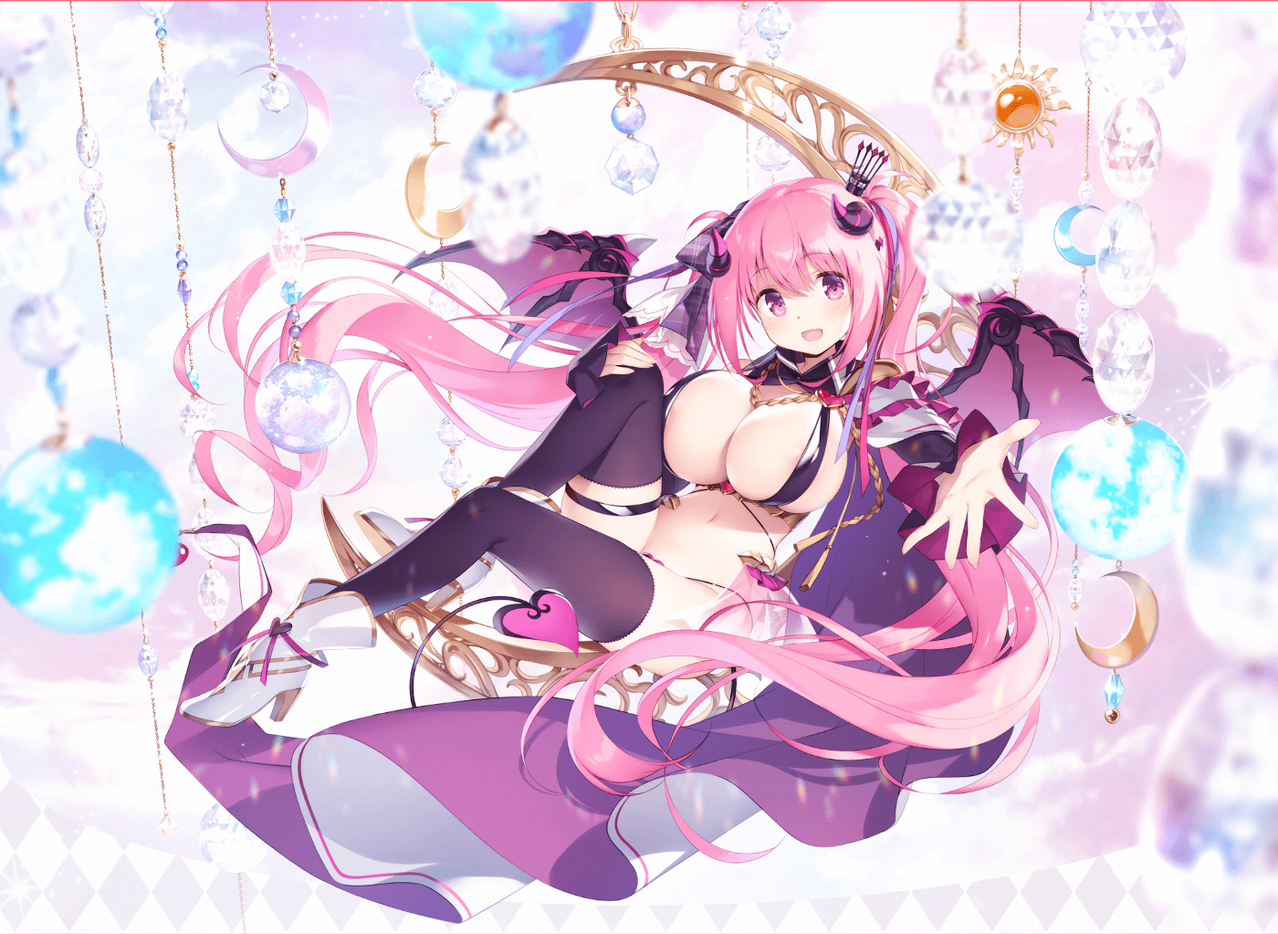
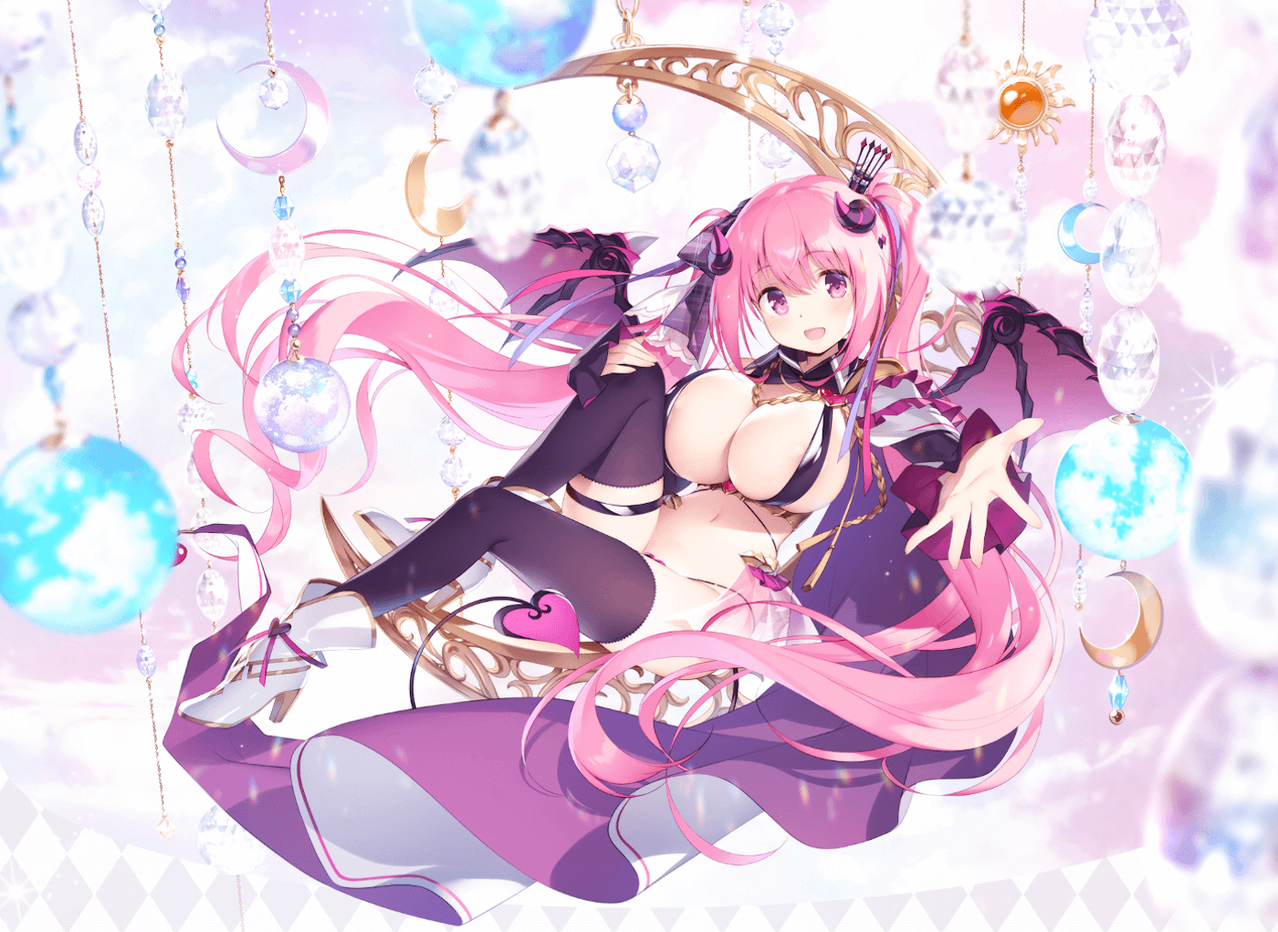
Ver.1.32-201910010 改进文章布局； 完善文章内容及排版；

diff --git a/game/articals/kimaten/kimaten_s.html b/game/articals/kimaten/kimaten_s.html
@@ -9,48 +9,158 @@
   <title>心血来潮的诱惑 梗概</title>
 </head>
 <body>
-<main>
-  男主巽悠久是日本负责所有超自然生物管理的超自然组织——阴阳寮下属的一名阴阳师。某天一幢公寓中发生了四名住户死亡的事件。经当地超自然机关刑事十三课勘察，四人腹部被剖开，没有其他外伤且内脏均不翼而飞，同时，公寓被浓厚的瘴气包围，而当地的阴阳师大家加贺见家的当主因事不在当地，其夫人怀孕无法亲临现场。悠久因为诅咒耐受力很强，其师父就派他前去现场调查该事件的真相，还告诉悠久有一名来自英国的协助者共同行动。
+<main style="margin: 1rem auto; left: 0; width: 90%;">
+  <p>
+    男主巽悠久是日本负责所有超自然生物管理的超自然组织——阴阳寮下属的一名阴阳师。某天一幢公寓中发生了四名住户死亡的事件。
+    经当地超自然机关刑事十三课勘察，四人腹部被剖开，没有其他外伤且内脏均不翼而飞，同时，公寓被浓厚的瘴气包围，
+    而当地的阴阳师大家加贺见家的当主因事不在当地，其夫人怀孕无法亲临现场。悠久因为诅咒耐受力很强，
+    其师父就派他前去现场调查该事件的真相，还告诉悠久有一名来自英国的协助者共同行动。
+  </p>
+  <p>
+    悠久进入公寓的空房间203住下，其协助者安妮丽泽是来自英国的恶魔(魅魔)，为了获得在日本的永久居住权而被师傅说服，住在101房。
+    悠久在房中张开符咒结界，购物归来却发现公寓大门无法打开，阳台也是全封闭式的，两人被关在公寓之中。
+    悠久分析是公寓在诅咒下已经成为了里世界，所有房间都表现为黑夜，只有203房有结界保护暂时是正常世界(女主安妮是恶魔不怕瘴气)。
+    悠久房间里手机信号正常，联系了加贺见家的妻子琴莉，其答应悠久尽快联系十三课调查住户和房东(已失踪)的信息，并每天晚上都保持电话联系。
+  </p>
+  <p>
+    次日两人开始调查公寓。安妮居住的101房除了瘴气略浓外并无其他异常。102房是一名身着修女服的女性自称莎莉，
+    房间里只有基本满足生活需求的家具。悠久不管问她什么问题她都用向神祈祷岔开话题，二人离开时她送给悠久一本精装教典，
+    说这是引导她们的教主玛莎的教谕，遵从教典向神祈祷才能真正成为她们的同伴，即“天使”。103房被满屋的垃圾堆满，都是零食包装袋，
+    汽水瓶等。一角的床上半空中躺着一名少女自称萝姬，似乎非常慵懒，对二人漠不关心。201房的屋中种满了不知名的植物，
+    一名看似不良少女的女性自称库里，抽着烟，语气粗鲁，且对那些植物极度重视，对所谓教义却不屑一顾。
+    二人趁其不备拍下了房间的照片并之后发给了加贺见琴莉。202房中是一名戴眼镜的女性自称哈比，语气弱气。房间里放着很多漫画小说，
+    其本人似乎也是个漫画作者。她似乎很好说话，告诉悠久这幢公寓即神之胎，里面的住户都是天使，只要遵从教义，
+    遵从自己的欲望就可以成为她们的同伴，最终成为天使。所有人身穿的服饰风格大同小异，只有201的库里在里面穿了一件水手服校服。
+    并且，所有人都是被一个叫玛莎的人引领进来的，她们的身体不同部位都有一个69形的所谓圣痕，悠久认为那是某种诅咒的刻印，
+    束缚着受害者的灵魂，标志这个人是“天使”。
+  </p>
+  <p>
+    两人回到203，发现时间已到夜晚。悠久分析里世界的时间流逝比正常世界慢，只有203结界保护才正常。
+    作为证明那本精装书在203只是一沓打印纸，其中只写了一些遵从七美德(七宗罪)等不明所以的话。其次，
+    公寓中的被害者灵魂都来自让灵体吞噬尸体(内脏)，使灵魂包裹肉体而产生，而不论自愿与否，创造法类似阴阳师创造可驱使的式神，
+    它们被圣名与刻印束缚，可能会忘却自己的过去(根据自愿与否)。这些与此同时加贺见琴莉发来了所有住户的真名，
+    以及201中的植物其实是大麻。悠久认为现今公寓关住两人就是为了同化两人为“天使”，想要查清真相不能单纯将这些灵体尽数斩杀，
+    而应该让她们自己想起自己生前的事和真名，让她们自己摆脱诅咒带来的扭曲和束缚，消除所有“天使”，诅咒就自然解开了。
+  </p>
+  <p>
+    第二天早上悠久发现自己的符咒结界已经开始有侵蚀的痕迹了，证明两人也不能久待。202的女性楠木美璃亚和安妮在动漫上的话题聊的很起劲，
+    悠久此时故意在她面前找理由提起她的真名，从她的反应推断出她应该记得自己生前之事和真名，可能是自愿加入邪教成为天使的。
+    对于201的库里，悠久并没有提起她的真名雾生晶，而是旁敲侧击问了她学校和校服的事，成功让她陷入混乱。由此可见，她大概是被迫成为天使的。
+    103的少女野野宫花音并没有出现，可能是在睡觉，但两人找出了垃圾山下的一个注射器并拍了照，之后发给了加贺美琴莉。
+    102的修女绫濑沙也香仍然没有收获，但安妮在提到了两人的关系是恋人时，房间内的瘴气出现了明显的波动，悠久认为这可能是突破口。
+  </p>
+  <p>
+    回到203，加贺美琴莉发来了除201的雾生晶以外其他人的身份背景。综合考虑，悠久认为两人被关在公寓里不一定是为了将他们吸纳为“家人”，
+    可能另有原因，因为直到现在都是两人主动调查而没有受到攻击和骚扰。新的一天，结界符的损伤加大，估计只能再坚持一到两天。
+    悠久也决定不再观察等待，而是主动进攻。但这天当两人离开房间却发现走廊已经被瘴气严重侵蚀。悠久首先在走廊上打开了教典。
+    教典空无一字，但它确实侵蚀了悠久，唤起了悠久过去内心中的伤痛和脆弱，就是从小到大被孤立的孤独感。
+    在教典将要诱惑悠久加入家族成为天使时，安妮见悠久反应不正常，击落了悠久手中的教典。这也就是说，交给他们教典的102的莎莉很可能是关键敌人。
+  </p>
+  <p>
+    两人进入202挑明身份和目的，果然哈比(楠木美璃亚)是记得自己生前的事，包括真名和自己的死亡，但她仍然否认自己的一切，
+    声称自己是天使哈比。悠久将加贺美琴莉发来的信息抖出，原来美璃亚是在网上画BL男性怀孕漫画以及男性向H漫的太太，不仅如此，
+    她还当过靠低俗梗(男性怀孕)火了一把的vtuber，但第三次直播由于太过激导致直播被封停。另外她还发行过r18ASMR等。
+    在悠久的施压下，哈比承认了自己就是美璃亚。据她称，玛莎就是房东太田寿子，她会以关心住户为名轮流住进各住户的房间，
+    如果是睡觉或没人在的时候就会用钥匙开门，但因为便宜她还是住进了这里。最后一次见到她是仪式当天。而关于仪式当天的事她记忆模糊，
+    只记得看见自己第三个被剖开腹部。醒来后就和自己的尸体一起在房间里了，自己出不去房间，一切都像是梦。而且，
+    房东会定期从隔壁房间取出称为“神的祝福”的紫色的药发给大家，仪式当天记忆模糊可能是药物作用。另外，住的时间最长的102房的莎莉和玛莎交情很好，
+    经常和玛莎一起在各个房间里传教。关于201房的库里，哈比只知道她经常不在屋里，但夜晚能听到她和玛莎/莎莉的对话声。
+    哈比还和103的萝姬趣味相投，她认为萝姬不会对悠久带的零食感兴趣，于是给了悠久一本萝姬没看完的漫画，说这个能让萝姬出来。
+    但谈到萝姬，哈比却喃喃道自己不是受害者，突然陷入混乱瘴气肆溢，悠久两人连忙出了房间。
+  </p>
+  <p>
+    两人准备进入201见库里，但按门铃没反应。悠久刚准备破门而出，库里却持刀从门缝刺出。安妮见势抓住库里，告诉她她已经死了的事实，
+    库里在惨叫中关上了门。
+  </p>
+  <p>
+    两人进入103成功用漫画吸引了萝姬，但她只说自己从最初就在这里住，不知道成为天使以前的事。但悠久一提到萝姬的父母，
+    她的态度突然转变，口中念到自己没有父母，玛莎是自己的母亲，瘴气肆溢。但当悠久否认了她的父母，给了她漫画时，一切又回归如初。
+    根据情报她的父母仍然健在来看，悠久认为她成为天使是由于家庭原因。安妮用和萝姬谈论漫画获取信任后，
+    萝姬在闲聊中提及自己成为天使后根本不用吃饭。突然，悠久发现自己搞错了一件重要的事。
+  </p>
+  <p>
+    两人刚一出萝姬的房间，悠久却突然陷入了诅咒的影响。在他好不容易摆脱了瘴气的影响后回到房间。冷静下来后，
+    悠久说到所谓天使或式神的原理都是使灵魂包裹肉体而使普通人不可视，与单纯人死后幽灵不同，由于要维持肉体所以需要进食，
+    而萝姬说自己不用进食，明显她只是单纯的幽灵。而203的哈比也同样这么认为，那至少她俩是单纯的幽灵。
+    问题在于消失的内脏(祭品)在哪或是被谁吃了？悠久认为照这样看，其他人都只是诅咒的受害者而非诅咒本身。这样“天使”们其实都不存在，
+    那这诅咒的核心就是这幢公寓“神之胎”产下的“神”。玛莎已经失踪，很有可能是将自己的全部肉体和受害者的内脏都献给了“神”。
+    现在的主要目标就是找到“神”并弑神以解除诅咒。在接到琴音小姐的关于房东写下的进行仪式的情报之后，原来102的莎莉由于与人交流障碍而工作不顺，
+    住进公寓后信了玛莎的邪教，与其一同蛊惑住户；103的萝姬则是无故将自己关在屋内不理睬任何人。其父母担心她，于是为了让她学会独立，
+    让她独自在外居住，将她托付给了熟人太田寿子。但私下，太田寿子诱惑她堕落而信了邪教。201的雾生晶则由于家世背景，认识很多黑道的人，
+    她借公寓的屋子培育大麻，又在黑道上买回加工好的毒品再转卖给学校的学生以获取利益。太田寿子也同时分得一部分麻药。
+  </p>
+  <p>
+    但就在两人整理线索时，203的门铃突然被按响。门外没人，只是102的莎莉的语音电话，让两人到她的房间去一趟。房中，
+    悠久挑明了身份和目的，莎莉也显出了真实模样，说她就是所谓“天使”。在确认她也无法离开房间且其力量根本无法伤害两人后，
+    悠久本着按加贺美家原则行事，没有斩杀她。但回到203却发现203也即将被瘴气侵蚀。这时，玛莎的日记扫描数据送到了悠久的手机。
+  </p>
+  <p>
+    原来玛莎小时候被父母管束很严，在父母事故死后又因为寂寞想要与人交流，在遇到沙也香后两人都在追求着与他人之间的羁绊，
+    变得越来越不正常，将阳台修成全封闭式也是为了防止住户逃跑，进入住户的房间也是为了作为大家的母亲，作为神一般的全能感。
+    之后她就开始想象神的声音，想让大家都成为天使，成为真正一家人。悠久认为莎莉/玛莎大概率已成一体，
+    只有找到能决定性的推翻莎莉/玛莎的世界观的证据就可以让她成佛。
+  </p>
+  <p>
+    最后一天早上，连203也被里世界完全侵蚀。悠久决定去找202的雾生晶要到麻药实物，并找203的楠木要到在药物影响下的犯罪证据，
+    以先击败天使莎莉为主。两人前往203，一轮嘴炮将濒临侵蚀的美璃亚救了回来。美璃亚讲述了她的经历。在住进这里两个月后，
+    房东太田就向她灌输邪教思想，她也配合着太田和绫濑的家人游戏。但当花音搬进102之后，由于花音对自己不关心的事不闻不问，
+    不听太田和绫濑的话，经常被两人殴打，但楠木却为了自己不被殴打，无视了好友花音向自己发出的求救信号。并且，
+    太田之后开始为花音注射“神的祝福”，由于花音的药物反应与他人不同，太田就每天都给她注射，直到花音成为生活无法自理的废人。
+    而楠木由于一直遵从太田她们的指示，不仅获得了随意外出的许可，还留有手机和可以上网，但她惧于太田和绫濑的疯狂和威慑，
+    一次都没有向外界求救。另外，她还提到了所有“天使”的服装，包括教典都是她设计制作的，但天使服装的设计只有玛莎一个人知道。
+    在仪式当天她们所有人都被注射了过量药物，在某个房间里被剖腹，她为了自己不被杀还亲手杀死了花音，但最后也没能逃脱被剖腹的命运。
+    三人还一起找到了楠木的服装设定集，悠久准备用这个来驳斥绫濑关于存在神的说法。
+  </p>
+  <p>
+    两人进入202，雾生晶已经恢复了人类的记忆和意识，摆脱了绫濑的精神支配。据她说，种植的大麻并不是神之祝福。她只抽大麻而不吸毒，
+    而神之祝福是一种含杂质的毒品，她本来是通过为黑道种植大麻，并帮他们在学校贩卖毒品，在其中抽成来赚钱的，
+    但太田由于喜欢私自进入住户房间，逼迫晶把她种植的大麻分给自己。不仅如此，太田和绫濑还与晶的上家接触，导致晶失去了毒品入手途径。
+    就在晶准备报复太田和绫濑时，她被两人杀死成为了灵。晶由于被父母要求学习身为大小姐的品行，但她不想那样拘束，结果被父母冷落，
+    渴望父母的爱。当她反应过来的时候，自己已经走上了邪道。嘴炮救回晶后，从他那里得到了毒品晶体和存有了绫濑毒品交易证据照片的sd卡。
+  </p>
+  <p>
+    在103门外，两人就听到了花音的惨叫声。在两人的帮助下，花音成功抵抗了莎莉的刺激，回归了自我。
+    在花音的手机上有由于她不听玛莎的话收拾房间而受到莎莉虐待的录音，悠久借走了她的手机。事实上，
+    是父母对她的期望过高导致她在压力下选择了什么都不做，才让父母送她到公寓独住。实际上，花音是记得自己被楠木杀死的事，
+    但她对楠木没有怨恨，反而感谢她每天来看她陪伴她。
+  </p>
+  <p>
+    虽然所有证据都指向了绫濑，但悠久认为事不寻常。一般说来，被害者是为了复仇等理由施下诅咒，但现在却是加害者施下诅咒囚禁被害者，
+    也就是说如果诅咒是绫濑施下的，那么她一定怨恨着，或对什么异常执着。进入102房间，悠久用得来的证据揭穿了绫濑沙也香的谎言。
+    原来她由于不被所有人重视，迫切想得到某人的认可，才唆使玛莎进行这个计划，在这里她是重要的干部，可以随意虐待手下的住户。
+    但悠久认为这并不能引发包围这座公寓的诅咒。威逼追问之下，沙也香终于说出仪式当天，只剩下她和玛莎后，
+    玛莎想让她停手但沙也香认为玛莎背叛了信仰而刺了玛莎，玛莎却反过来用这把刀刺了沙也香。她认为一切都是玛莎的错，
+    都是玛莎安排她这样做的。她想要自己支配整个家族而排斥玛莎，将她关在了地下室。事到如今，沙也香还想用结界困杀悠久，但被愤怒的安妮所斩杀。
+  </p>
 
-  悠久进入公寓的空房间203住下，其协助者安妮丽泽是来自英国的恶魔(魅魔)，为了获得在日本的永久居住权而被师傅说服，住在101房。悠久在房中张开符咒结界，购物归来却发现公寓大门无法打开，阳台也是全封闭式的，两人被关在公寓之中。悠久分析是公寓在诅咒下已经成为了里世界，所有房间都表现为黑夜，只有203房有结界保护暂时是正常世界(女主安妮是恶魔不怕瘴气)。悠久房间里手机信号正常，联系了加贺见家的妻子琴莉，其答应悠久尽快联系十三课调查住户和房东(已失踪)的信息，并每天晚上都保持电话联系。
-
-  次日两人开始调查公寓。安妮居住的101房除了瘴气略浓外并无其他异常。102房是一名身着修女服的女性自称莎莉，房间里只有基本满足生活需求的家具。悠久不管问她什么问题她都用向神祈祷岔开话题，二人离开时她送给悠久一本精装教典，说这是引导她们的教主玛莎的教谕，遵从教典向神祈祷才能真正成为她们的同伴，即“天使”。103房被满屋的垃圾堆满，都是零食包装袋，汽水瓶等。一角的床上半空中躺着一名少女自称萝姬，似乎非常慵懒，对二人漠不关心。201房的屋中种满了不知名的植物，一名看似不良少女的女性自称库里，抽着烟，语气粗鲁，且对那些植物极度重视，对所谓教义却不屑一顾。二人趁其不备拍下了房间的照片并之后发给了加贺见琴莉。202房中是一名戴眼镜的女性自称哈比，语气弱气。房间里放着很多漫画小说，其本人似乎也是个漫画作者。她似乎很好说话，告诉悠久这幢公寓即神之胎，里面的住户都是天使，只要遵从教义，遵从自己的欲望就可以成为她们的同伴，最终成为天使。所有人身穿的服饰风格大同小异，只有201的库里在里面穿了一件水手服校服。并且，所有人都是被一个叫玛莎的人引领进来的，她们的身体不同部位都有一个69形的所谓圣痕，悠久认为那是某种诅咒的刻印，束缚着受害者的灵魂，标志这个人是“天使”。
-
-  两人回到203，发现时间已到夜晚。悠久分析里世界的时间流逝比正常世界慢，只有203结界保护才正常。作为证明那本精装书在203只是一沓打印纸，其中只写了一些遵从七美德(七宗罪)等不明所以的话。其次，公寓中的被害者灵魂都来自让灵体吞噬尸体(内脏)，使灵魂包裹肉体而产生，而不论自愿与否，创造法类似阴阳师创造可驱使的式神，它们被圣名与刻印束缚，可能会忘却自己的过去(根据自愿与否)。这些与此同时加贺见琴莉发来了所有住户的真名，以及201中的植物其实是大麻。悠久认为现今公寓关住两人就是为了同化两人为“天使”，想要查清真相不能单纯将这些灵体尽数斩杀，而应该让她们自己想起自己生前的事和真名，让她们自己摆脱诅咒带来的扭曲和束缚，消除所有“天使”，诅咒就自然解开了。
-
-  第二天早上悠久发现自己的符咒结界已经开始有侵蚀的痕迹了，证明两人也不能久待。202的女性楠木美璃亚和安妮在动漫上的话题聊的很起劲，悠久此时故意在她面前找理由提起她的真名，从她的反应推断出她应该记得自己生前之事和真名，可能是自愿加入邪教成为天使的。对于201的库里，悠久并没有提起她的真名雾生晶，而是旁敲侧击问了她学校和校服的事，成功让她陷入混乱。由此可见，她大概是被迫成为天使的。103的少女野野宫花音并没有出现，可能是在睡觉，但两人找出了垃圾山下的一个注射器并拍了照，之后发给了加贺美琴莉。102的修女绫濑沙也香仍然没有收获，但安妮在提到了两人的关系是恋人时，房间内的瘴气出现了明显的波动，悠久认为这可能是突破口。
-
-  回到203，加贺美琴莉发来了除201的雾生晶以外其他人的身份背景。综合考虑，悠久认为两人被关在公寓里不一定是为了将他们吸纳为“家人”，可能另有原因，因为直到现在都是两人主动调查而没有受到攻击和骚扰。新的一天，结界符的损伤加大，估计只能再坚持一到两天。悠久也决定不再观察等待，而是主动进攻。但这天当两人离开房间却发现走廊已经被瘴气严重侵蚀。悠久首先在走廊上打开了教典。教典空无一字，但它确实侵蚀了悠久，唤起了悠久过去内心中的伤痛和脆弱，就是从小到大被孤立的孤独感。在教典将要诱惑悠久加入家族成为天使时，安妮见悠久反应不正常，击落了悠久手中的教典。这也就是说，交给他们教典的102的莎莉很可能是关键敌人。
-
-  两人进入202挑明身份和目的，果然哈比(楠木美璃亚)是记得自己生前的事，包括真名和自己的死亡，但她仍然否认自己的一切，声称自己是天使哈比。悠久将加贺美琴莉发来的信息抖出，原来美璃亚是在网上画BL男性怀孕漫画以及男性向H漫的太太，不仅如此，她还当过靠低俗梗(男性怀孕)火了一把的vtuber，但第三次直播由于太过激导致直播被封停。另外她还发行过r18ASMR等。在悠久的施压下，哈比承认了自己就是美璃亚。据她称，玛莎就是房东太田寿子，她会以关心住户为名轮流住进各住户的房间，如果是睡觉或没人在的时候就会用钥匙开门，但因为便宜她还是住进了这里。最后一次见到她是仪式当天。而关于仪式当天的事她记忆模糊，只记得看见自己第三个被剖开腹部。醒来后就和自己的尸体一起在房间里了，自己出不去房间，一切都像是梦。而且，房东会定期从隔壁房间取出称为“神的祝福”的紫色的药发给大家，仪式当天记忆模糊可能是药物作用。另外，住的时间最长的102房的莎莉和玛莎交情很好，经常和玛莎一起在各个房间里传教。关于201房的库里，哈比只知道她经常不在屋里，但夜晚能听到她和玛莎/莎莉的对话声。哈比还和103的萝姬趣味相投，她认为萝姬不会对悠久带的零食感兴趣，于是给了悠久一本萝姬没看完的漫画，说这个能让萝姬出来。但谈到萝姬，哈比却喃喃道自己不是受害者，突然陷入混乱瘴气肆溢，悠久两人连忙出了房间。
-
-  两人准备进入201见库里，但按门铃没反应。悠久刚准备破门而出，库里却持刀从门缝刺出。安妮见势抓住库里，告诉她她已经死了的事实，库里在惨叫中关上了门。
-
-  两人进入103成功用漫画吸引了萝姬，但她只说自己从最初就在这里住，不知道成为天使以前的事。但悠久一提到萝姬的父母，她的态度突然转变，口中念到自己没有父母，玛莎是自己的母亲，瘴气肆溢。但当悠久否认了她的父母，给了她漫画时，一切又回归如初。根据情报她的父母仍然健在来看，悠久认为她成为天使是由于家庭原因。安妮用和萝姬谈论漫画获取信任后，萝姬在闲聊中提及自己成为天使后根本不用吃饭。突然，悠久发现自己搞错了一件重要的事。
-
-  两人刚一出萝姬的房间，悠久却突然陷入了诅咒的影响。在他好不容易摆脱了瘴气的影响后回到房间。冷静下来后，悠久说到所谓天使或式神的原理都是使灵魂包裹肉体而使普通人不可视，与单纯人死后幽灵不同，由于要维持肉体所以需要进食的，而萝姬说自己不用进食，明显她只是单纯的幽灵。而203的哈比也同样这么认为，那至少她俩是单纯的幽灵。问题在于消失的内脏(祭品)在哪或是被谁吃了？悠久认为照这样看，其他人都只是诅咒的受害者而非诅咒本身。这样“天使”们其实都不存在，那这诅咒的核心就是这幢公寓“神之胎”产下的“神”。玛莎已经失踪，很有可能是将自己的全部肉体和受害者的内脏都献给了“神”。现在的主要目标就是找到“神”并弑神以解除诅咒。在接到琴音小姐的关于房东写下的进行仪式的情报之后，原来102的莎莉由于与人交流障碍而工作不顺，住进公寓后信了玛莎的邪教，与其一同蛊惑住户；103的萝姬则是无故将自己关在屋内不理睬任何人。其父母担心她，于是为了让她学会独立，让她独自在外居住，将她托付给了熟人太田寿子。但私下，太田寿子诱惑她堕落而信了邪教。201的雾生晶则由于家世背景，认识很多黑道的人，她借公寓的屋子培育大麻，又在黑道上买回加工好的毒品再转卖给学校的学生以获取利益。太田寿子也同时分得一部分麻药。
-
-  但就在两人整理线索时，203的门铃突然被按响。门外没人，只是102的莎莉的语音电话，让两人到她的房间去一趟。房中，悠久挑明了身份和目的，莎莉也显出了真实模样，说她就是所谓“天使”。在确认她也无法离开房间且其力量根本无法伤害两人后，悠久本着按加贺美家原则行事，没有斩杀她。但回到203却发现203也即将被瘴气侵蚀。这时，玛莎的日记扫描数据送到了悠久的手机。
-
-  原来玛莎小时候被父母管束很严，在父母事故死后又因为寂寞想要与人交流，在遇到沙也香后两人都在追求着与他人之间的羁绊，变得越来越不正常，将阳台修成全封闭式也是为了防止住户逃跑，进入住户的房间也是为了作为大家的母亲，作为神一般的全能感。之后她就开始想象神的声音，想让大家都成为天使，成为真正一家人。悠久认为莎莉/玛莎大概率已成一体，只有找到能决定性的推翻莎莉/玛莎的世界观的证据就可以让她成佛。
-
-  最后一天早上，连203也被里世界完全侵蚀。悠久决定去找202的雾生晶要到麻药实物，并找203的楠木要到在药物影响下的犯罪证据，以先击败天使莎莉为主。两人前往203，一轮嘴炮将濒临侵蚀的美璃亚救了回来。美璃亚讲述了她的经历。在住进这里两个月后，房东太田就向她灌输邪教思想，她也配合着太田和绫濑的家人游戏。但当花音搬进102之后，由于花音对自己不关心的事不闻不问，不听太田和绫濑的话，经常被两人殴打，但楠木却为了自己不被殴打，无视了好友花音向自己发出的求救信号。并且，太田之后开始为花音注射“神的祝福”，由于花音的药物反应与他人不同，太田就每天都给她注射，直到花音成为生活无法自理的废人。而楠木由于一直遵从太田她们的指示，不仅获得了随意外出的许可，还留有手机和可以上网，但她惧于太田和绫濑的疯狂和威慑，一次都没有向外界求救。另外，她还提到了所有“天使”的服装，包括教典都是她设计制作的，但天使服装的设计只有玛莎一个人知道。在仪式当天她们所有人都被注射了过量药物，在某个房间里被剖腹，她为了自己不被杀还亲手杀死了花音，但最后也没能逃脱被剖腹的命运。三人还一起找到了楠木的服装设定集，悠久准备用这个来驳斥绫濑神的存在。
-
-  两人进入202，雾生晶已经恢复了人类的记忆和意识，摆脱了绫濑的精神支配。据她说，种植的大麻并不是神之祝福。她只抽大麻而不吸毒，而神之祝福是一种含杂质的毒品，她本来是通过为黑道种植大麻，并帮他们在学校贩卖毒品，在其中抽成来赚钱的，但太田由于喜欢私自进入住户房间，逼迫晶把她种植的大麻分给自己。不仅如此，太田和绫濑还与晶的上家接触，导致晶失去了毒品入手途径。就在晶准备报复太田和绫濑时，她被两人杀死成为了灵。晶由于被父母要求学习身为大小姐的品行，但她不想那样拘束，结果被父母冷落，渴望父母的爱。当她反应过来的时候，自己已经走上了邪道。嘴炮救回晶后，从他那里得到了毒品晶体和存有了绫濑毒品交易证据照片的sd卡。
-
-  在103门外，两人就听到了花音的惨叫声。在两人的帮助下，花音成功抵抗了莎莉的刺激，回归了自我。在花音的手机上有由于她不听玛莎的话收拾房间而受到莎莉虐待的录音，悠久借走了她的手机。事实上，是父母对她的期望过高导致她在压力下选择了什么都不做，才让父母送她到公寓独住。实际上，花音是记得自己被楠木杀死的事，但她对楠木没有怨恨，反而感谢她每天来看她陪伴她。
-
-  虽然所有证据都指向了绫濑，但悠久认为事不寻常。一般说来，被害者是为了复仇等理由施下诅咒，但现在却是加害者施下诅咒囚禁被害者，也就是说如果诅咒是绫濑施下的，那么她一定怨恨着，或对什么异常执着。进入102房间，悠久用得来的证据揭穿了绫濑沙也香的谎言。原来她由于不被所有人重视，迫切想得到某人的认可，才唆使玛莎进行这个计划，在这里她是重要的干部，可以随意虐待手下的住户。但悠久认为这并不能引发包围这座公寓的诅咒。威逼追问之下，沙也香终于说出仪式当天，只剩下她和玛莎后，玛莎想让她停手但沙也香认为玛莎背叛了信仰而刺了玛莎，玛莎却反过来用这把刀刺了沙也香。她认为一切都是玛莎的错，都是玛莎安排她这样做的。她想要自己支配整个家族而排斥玛莎，将她关在了地下室。事到如今，沙也香还想用结界困杀悠久，但被愤怒的安妮所斩杀。
-
-  虽然诅咒被解除了，但悠久认为地下室里的玛莎才是诅咒增幅的关键。两人向其他三人报告结果，发现她们身上的69形刻印仍未消失，楠木还送给悠久自己画的原稿作为答谢。第二天早上，安妮告诉悠久之前忘了，但其实地下室入口就在她住的101房间里。两人进入地下室，只找到了玛莎半腐的尸体。由于公寓里所有人的排斥，而且她自己所期望的就是死亡，因此没有成为天使或亡灵。也就是说，增幅沙也香悬念的不是玛莎。不过，悠久已经猜到了，公寓里所有的房客都是灵体的现在，唯一有可能吞噬她们的内脏而成为“天使”或称为“神”的，必然只能是。。。
-
-
-
-  安妮。
-
-  并且由于所有天使的服饰都来自于楠木的设定，而楠木交给悠久的原稿(其实是安妮让楠木给悠久的，为了让他能注意到自己的身份)上所画的服饰衣装以及她所设定的名字，都和女主一模一样。所以，其实一开始，诅咒就在悠久身边跟随着他。她来自于死亡的四人临死前强烈的思念，吞噬了四人的内脏后成为了“天使”。她是所有死者思念的集合体，活着就必须诅咒某人（有绫濑的一部分），将所有人关在房间里也是她的原因（来自花音想要保护自己的愿望）。所以悠久的师父到来时，就是为了让悠久这个抗咒能力极强的人把她带走。但正因为她带着要将人咒死的愿望诞生，所以悠久必须要除掉她。
-
-  一切都结束后，悠久向三人和师傅报告了结果。他下定决心，不管用什么方法，即便是邪道，也要将安妮再次带回身边。（完）
+  <p>
+    虽然诅咒被解除了，但在两人向其他三人报告结果时，发现她们身上的69形刻印仍未消失，悠久认为地下室里的玛莎才是诅咒增幅的关键。
+    楠木还送给悠久自己画的原稿作为答谢。第二天早上，安妮告诉悠久之前忘了，但其实地下室入口就在她住的101房间里。两人进入地下室，
+    只找到了玛莎半腐的尸体。由于公寓里所有人的排斥，而且她自己所期望的就是死亡，因此既没有成为天使也没有成为亡灵。也就是说，
+    增幅沙也香悬念的不是玛莎。不过，悠久已经猜到了，公寓里所有的房客都是灵体的现在，唯一有可能吞噬她们的内脏而成为“天使”或称为“神”的，
+    必然只能是。。。
+  </p>
+  <br>
+  <br>
+  <br>
+  <br>
+  <p>
+    安妮。
+  </p>
+  <p>
+    由于所有天使的服饰都来自于楠木的设定，而楠木交给悠久的原稿（其实是安妮让楠木给悠久的，为了让他能尽早注意到自己的身份）
+    上所画的服饰衣装以及她所设定的名字，都和女主一模一样。所以，其实一开始，诅咒就在悠久身边跟随着他。
+    她来自于死亡的四人临死前强烈的思念，吞噬了四人的内脏后成为了“天使”。她是所有死者思念的集合体，活着就必须诅咒某人（有绫濑的一部分），
+    将所有人关在房间里也是她的原因（来自花音想要保护自己的愿望）。所以悠久的师父第一次到来时，就是为了让悠久这个抗咒能力极强的人把她带走（除掉）。
+    但正因为她带着要将人咒死的愿望诞生，所以悠久必须要除掉她。
+  </p>
+  <p>
+  一切都结束后，悠久向已获自由的三人和师傅报告了结果。他下定决心，不管用什么方法，即便是邪道，也要将安妮再次带回身边。（完）
+  </p>
+  <picture>
+    <source srcset="../pics/kimaten/the_end.png">
+    <img class="cg_middle" src="../pics/kimaten/the_end.png" alt="Anneliese and Haruhisa">
+  </picture>
 </main>
 </body>
 </html>

diff --git a/game/articals/kimaten/kimaten_c.html b/game/articals/kimaten/kimaten_c.html
@@ -47,8 +47,8 @@
     <p>这是SILKY'S PLUS社旗下WASABI团队于2019年9月27日发售的一款Galgame。</p>
     <p>
       说实话，这是我第一次玩这个社做的Gal。至于为什么我会玩到这款游戏，说起来你可能不信，完全是因为QQ群里疯传那张表情包，
-      内容由于涉及剧透我就不多说了。其实初玩这游戏的时候我的内心是拒绝的，因为它的游戏介绍和游戏封面让我对它完全不看好（没错我晕奶！），
-      感觉就是那种随便加了一点猎奇元素的烂大街恋爱游戏，甚至连安装目录都是随便选了个临时目录（笑）。
+      内容由于涉及剧透我就不多说了。其实初玩这游戏的时候我的内心是拒绝的，因为它的游戏介绍和游戏封面让我对它完全不看好
+      <span class="hide">没错我晕奶！</span>，感觉就是那种随便加了一点猎奇元素的烂大街恋爱游戏，甚至连安装目录都是随便选了个临时目录（笑）。
     </p>
     <p>
       不仅如此，开篇女主卖萌卖肉再加上什么阴阳师以及既视感浓烈的被关在房子里的设定，给了我满满的辣鸡换皮游戏的感觉。
@@ -64,18 +64,18 @@
   <picture>
     <source srcset="../pics/kimaten/heroine_1400.png" media="(min-width: 1000px)">
     <source srcset="../pics/kimaten/heroine_1000.png" media="(max-width: 1000px)">
-    <img class="cg_middle" src="../pics/kimaten/heroine.jpg" alt="Heroine of Kimaten">
+    <img class="cg_middle" src="../pics/kimaten/heroine.png" alt="Heroine of Kimaten">
   </picture>
   <section id="cg_comment">
     <h2>画面：7/10</h2>
     <p>
       这部Gal的UI界面属于正常水平，没什么反人类的设计。游戏CG可以算是比较精美的了，
-      尤其是女主使用了Emote技术(但其实感觉上就是live2d)，所有立绘都是动态的，
+      尤其是女主使用了Emote技术（但其实感觉上就是live2d），所有立绘都是动态的，
       在附录的安妮viewer里能看到制作组竟然给女主设计了180个动作！不仅如此，她还拥有整整五套不同风格的服装，
       根据游戏内的日期设计每天一套。可以看出制作组在这个唯一的女主身上下了多大的功夫。但与之相对，其他配角就显得相当乏善可陈。
       四个配角不仅没有HCG，甚至连立绘都省了，全靠每人一张角色CG改图做差分，这制作组怕不是把钱都花在女主一人身上了。
       此外，事件和场景CG数量稀少，除去女主，种种地方都透露着小作坊的廉价感。不过考虑到本来就是小格局的低成本小品Gal
-      (并且本人对画面不敏感)，虽然有些令人失望，但看在CG还算精美和用心制作的女主立绘的份上，也算是中规中矩吧。
+      （并且本人对画面不敏感），虽然有些令人失望，但看在CG还算精美和用心制作的女主立绘的份上，也算是中规中矩吧。
     </p>
   </section>
 
@@ -88,9 +88,9 @@
     <h2>系统等：4/10</h2>
     <p>
       这部作品的游戏系统是最让我想吐槽的。作为一部悬疑向的作品，加入行动选择系统增加些许游戏性是不错的主意，但却略显鸡肋。
-      估计是为了简化程序和减少文本量，场景调查的选择区域被设置的很大，实际玩起来毫无探索的乐趣；在行动选择部分，
+      估计是为了简化程序和减少文本量，场景调查的可选择区域被设置的很大，实际玩起来毫无探索的乐趣；在行动选择部分，
       本来房间数量就少，还有两个常年上锁的房间，再加上游戏流程的限制，选择房间的调查顺序根本毫无意义，
-      游戏流程的结尾甚至直接取消了这个环节，不知道算不算自打脸(笑)。还有个最让我恼火的部分，就是女主的动态立绘。
+      游戏流程的结尾甚至直接取消了这个环节，不知道算不算自打脸（笑）。还有个最让我恼火的部分，就是女主的动态立绘。
       虽然这个所谓的Emote让游戏画面增色不少，但这个系统的资源消耗真让人不敢恭维。我平时推Gal通常是用的平板，
       但这游戏只要女主一出立绘就会直接卡到程序未响应！好，我的平板配置渣我认，但是在设置里关闭了Emote以后还这么卡是闹哪样？？
       卡顿完全没有缓解，设置这个开关还有什么意义？？正常流程尚且可以忍受，但在最后回收结局的时候简直就是灾难：
@@ -102,7 +102,7 @@
     <h2>剧情：8/10</h2>
     <p>
       剧情方面无疑是这部Gal给人最大的惊喜。背景设定虽然简单，但在游戏流程中对其进行了严密地设定和扩充，
-      最终构建了一个相对完整而自洽的世界观。(不像某字母社，每次都构建出一个庞大的世界观但基本都没有好好利用。)
+      最终构建了一个相对完整而自洽的世界观。<span class="hide">不像某字母社，每次都构建出一个庞大的世界观但基本都没有好好利用。</span>
       游戏所宣传的卖点一直都集中在女主身上，让我一度以为猎奇的故事背景只是个噱头，所谓的悬疑也只是恋爱情节的陪衬，
       但事实上完全相反。男主身为一名阴阳师调查员，不仅业务纯熟战力高强，而且对事件脉络的梳理和推断也都头头是道，
       即便是不得不加入的一些“强行设定”，也会详细解释这些设定的“原理”并将其填充为世界观的一部分。能将剧本前期挖下的坑全部填上，
@@ -110,13 +110,13 @@
     </p>
     <p>
       在角色设定方面，本作的人物个性都还是刻画的相当鲜明的。男主在工作中的一丝不苟和在生活中的木讷，
-      轻微社恐让我这样的肥宅社畜代入感满满；女主作为活泼开朗的吐槽役，其小恶魔一般(人家本来就是恶魔嘛)
-      女友力满满的性格更是让人欲罢不能(没错，她就是我老婆！)。不过有一点小小的不足，就是作者让男主在剧情中嘴炮+分析占尽了风头，
+      轻微社恐让我这样的<span class="hide">肥宅</span>社畜代入感满满；女主作为活泼开朗的吐槽役，
+      其小恶魔一般<span class="hide">人家本来就是恶魔嘛</span>女友力满满的性格更是让人欲罢不能<span class="hide">没错，她就是我老婆！</span>。不过有一点小小的不足，就是作者让男主在剧情中嘴炮+分析占尽了风头，
       导致女主除了H场景存在感薄弱，这一点直到游戏后期才有所缓解。不过，本来男主身边就欠缺配角，在压抑的故事背景之下，
       有女主这样一个时不时和男主打情骂俏缓解气氛的角色也是必不可少的。
     </p>
     <p>
-      另一点值得一说的是这个游戏的配角。本作配角数量本就稀少(甚至连张HCG都没有，这还真是个纯爱游戏啊)，
+      另一点值得一说的是这个游戏的配角。本作配角数量本就稀少<span class="hide">甚至连张HCG都没有，这还真是个纯爱游戏啊</span>，
       在文本量的限制下更是难以通过短短的几轮对话完全展现这些角色的方方面面。
       但本作很聪明地通过“搜查笔记”这样一个系统收录了所有角色的背景故事，极大地丰富了单薄的配角剧情。
       虽说剧情方面有很多亮眼的表现，但依然有不少让人黑人问号.jpg的缺陷。鸡肋的场景调查和行动选择暂且不表，

diff --git a/game/articals/artical.css b/game/articals/artical.css
@@ -6,6 +6,7 @@ body {
   background: #F0F1F2;
 }
 
+/* 侧边栏样式 */
 aside {
   top: 12%;
   width: 20%;
@@ -101,6 +102,7 @@ aside > div {
   width: 76%;
 }
 
+/* 正文样式 */
 main {
   position: relative;
   margin: 1rem 0;
@@ -131,16 +133,6 @@ p {
   box-shadow: 1px 2px 2px rgba(0, 0, 0, 0.5);
 }
 
-.cg_middle {
-  display: block;
-  margin: 0 auto;
-  width: 80%;
-  border: 1px solid #F2DFE6;
-  box-shadow: 1px 2px 3px rgba(0, 0, 0, 0.7);
-  transform-origin: center;
-  transform: rotate(-3deg);
-}
-
 #game_type {
   margin: 2rem 0;
 }
@@ -166,6 +158,26 @@ p {
   border-color: hotpink;
 }
 
+.cg_middle {
+  display: block;
+  margin: 0 auto;
+  width: 80%;
+  border: 1rem solid white;
+  box-shadow: 1px 2px 3px rgba(0, 0, 0, 0.7);
+  transform-origin: center;
+  transform: rotate(-3deg);
+}
+
+.hide {
+  transition: color 0.5s;
+  padding: 0 0.5rem;
+}
+
+.hide:hover {
+  color: black;
+}
+
+/* 响应式布局 */
 @media (max-width: 900px) {
   aside {
     transform: translateX(-90%);

diff --git a/game/index.html b/game/index.html
@@ -58,10 +58,10 @@
       </td>
       <td>良作</td>
       <td>
-        <img data-url="articals/kimaten_c.html" src="../texture/file.png" alt="文档">
+        <img data-url="articals/kimaten/kimaten_c.html" src="../texture/file.png" alt="文档">
       </td>
       <td>
-        <img data-url="articals/kimaten_s.html" src="../texture/file.png" alt="文档">
+        <img data-url="articals/kimaten/kimaten_s.html" src="../texture/file.png" alt="文档">
       </td>
     </tr>
     </tbody>

diff --git a/game/articals/kimaten/kimaten.css b/game/articals/kimaten/kimaten.css
@@ -1,3 +1,4 @@
+/* 侧边栏样式 */
 aside {
   background-color: #F288A4;
   border-top-color: #F288A4;
@@ -9,6 +10,11 @@ aside {
   background-color: #EEBACB;
 }
 
+.rating a:focus, .rating a:active {
+  color: #E43D60;
+}
+
+/* 正文样式 */
 main {
   background-color: #F2DFE6;
 }
@@ -18,6 +24,10 @@ header {
   color: #F288A4;
 }
 
-.rating a:focus, .rating a:active {
-  color: #FF3396;
+section h2 {
+  color: #E43D60;
+}
+
+.hide {
+  color: #F2DFE6;
 }

diff --git a/game/index.css b/game/index.css
@@ -12,13 +12,14 @@ header {
 
 hr {
   width: 60%;
-  min-width: 600px;
+  min-width: 700px;
+  margin: 0.5rem auto;
 }
 
 main {
   width: 50%;
   margin: 1.5rem auto;
-  min-width: 600px;
+  min-width: 650px;
 }
 
 table {
@@ -26,7 +27,7 @@ table {
   width: 100%;
   margin: 0 auto;
   border-spacing: 0 0.8rem;
-  min-width: 550px;
+  min-width: 650px;
 }
 
 tr {
